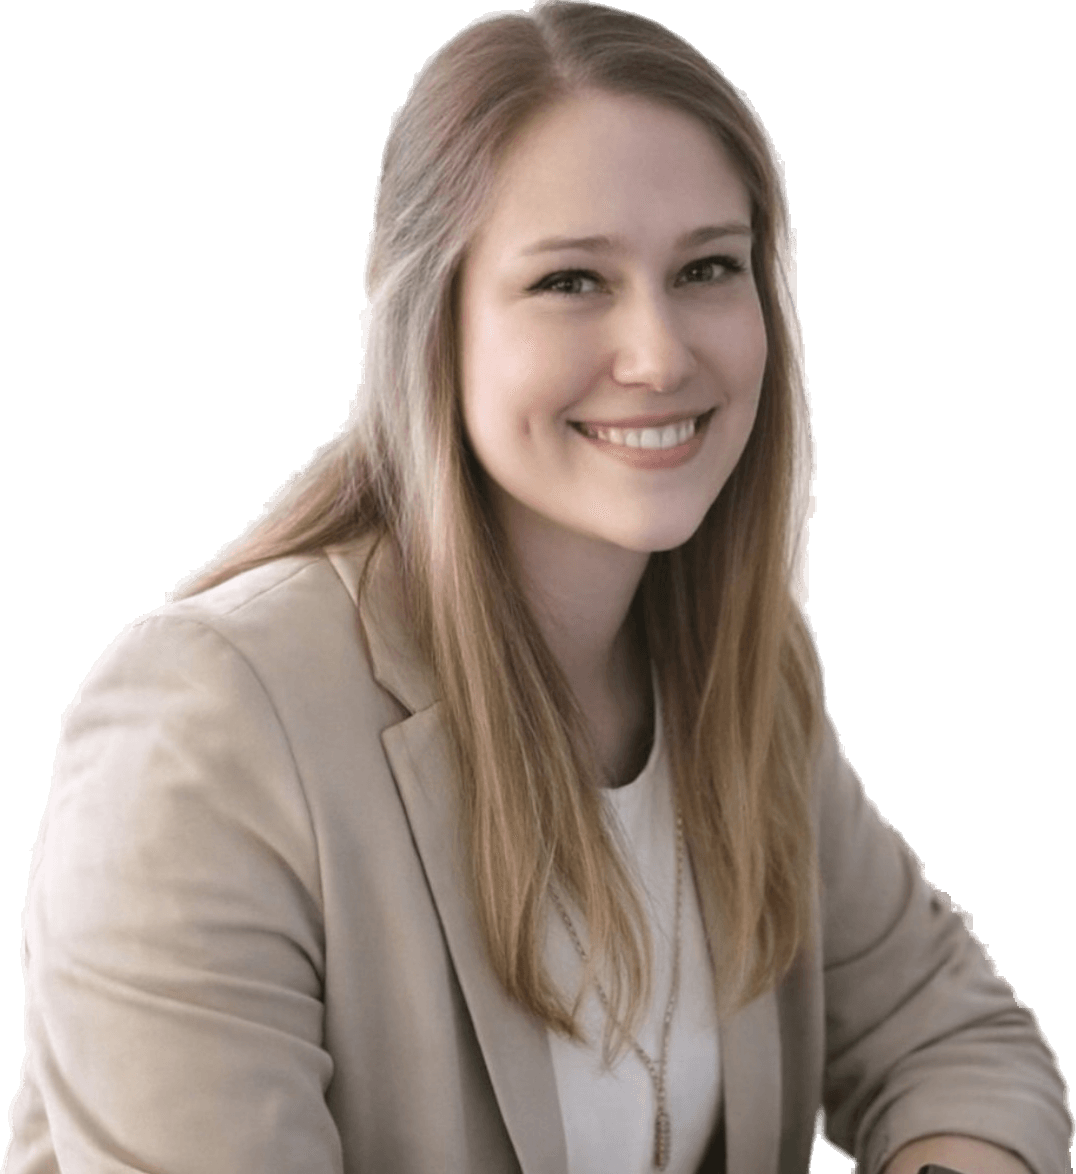
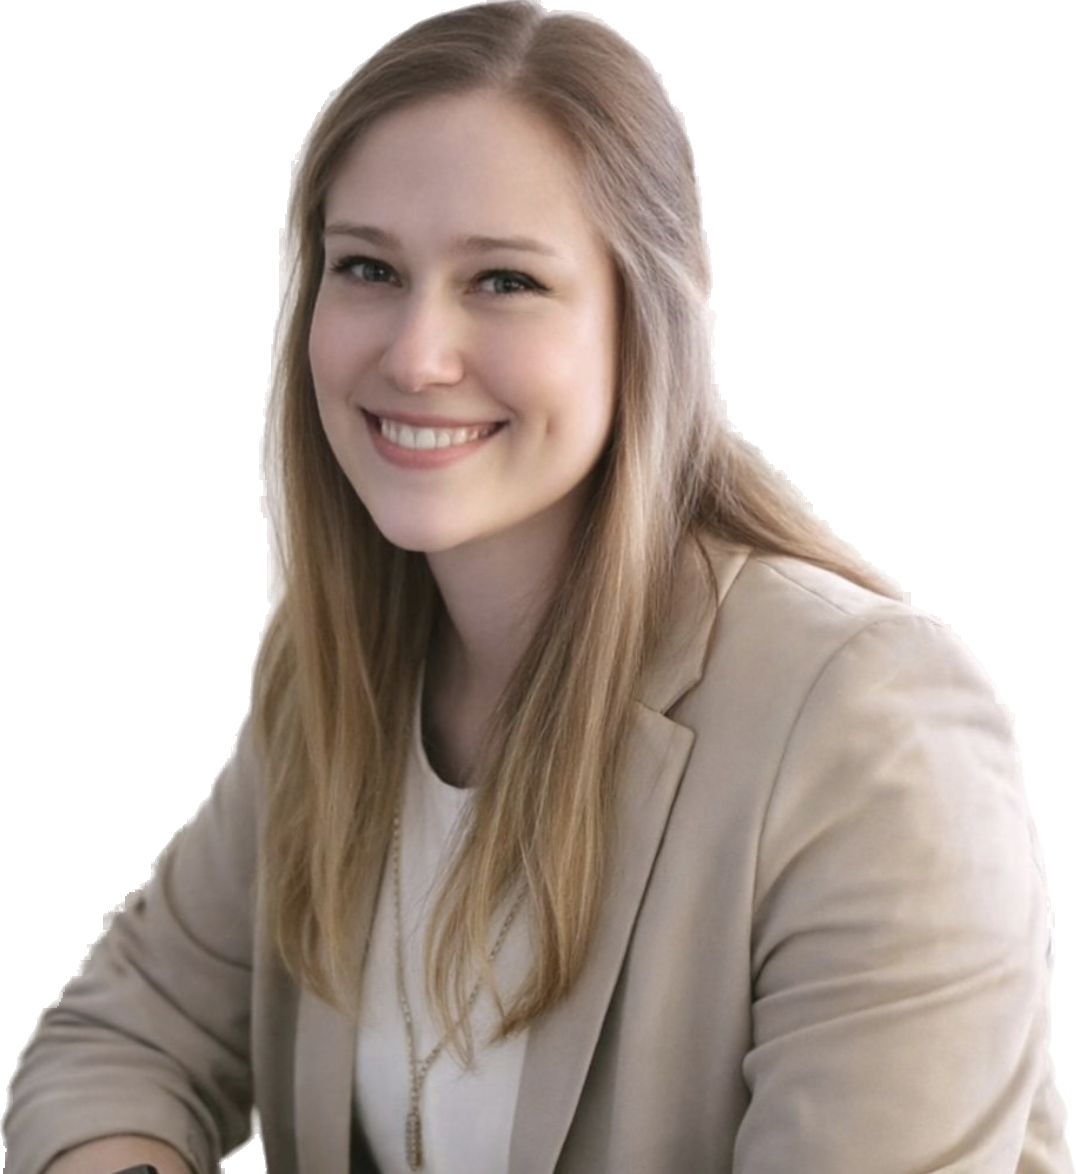
dradora: cabello más limpio, fotos recortadas a la cintura y foto principal volteada hacia el texto
Claude-Session: https://claude.ai/code/session_01MpN3umNtzBiiuCsnLceKdT

diff --git a/dradora/index.html b/dradora/index.html
@@ -72,12 +72,12 @@ nav.main a:hover{color:var(--plum)}
 .appt .cta{width:100%;justify-content:center}
 .stage{position:relative;align-self:end;justify-self:center;width:100%;max-width:470px;aspect-ratio:470/520}
 .stage::before{content:"";position:absolute;inset:20% 4% 0 4%;border-radius:220px 220px 0 0;background:linear-gradient(170deg,var(--lilac) 0%,var(--violet) 100%)}
-.stage svg{position:absolute;inset:6% -4% auto auto;width:62%;height:auto;opacity:.9}
+.stage svg{position:absolute;inset:6% auto auto -4%;width:62%;height:auto;opacity:.9}
 .stage img{position:absolute;left:0;bottom:0;width:100%;height:auto}
-.stage .tag{position:absolute;left:-12px;bottom:40px;background:var(--paper);border:1px solid var(--line);padding:12px 16px;box-shadow:0 16px 36px rgba(45,26,75,.16)}
+.stage .tag{position:absolute;right:-12px;bottom:40px;background:var(--paper);border:1px solid var(--line);padding:12px 16px;box-shadow:0 16px 36px rgba(45,26,75,.16)}
 .stage .tag b{display:block;font-family:var(--display);font-weight:400;font-size:1.7rem;line-height:1;color:var(--plum)}
 .stage .tag span{font-size:12px;color:var(--muted)}
-@media (max-width:900px){.hero .wrap{grid-template-columns:1fr;gap:0}.appt{margin-bottom:32px;max-width:none}.stage{max-width:340px}.stage .tag{left:0}}
+@media (max-width:900px){.hero .wrap{grid-template-columns:1fr;gap:0}.appt{margin-bottom:32px;max-width:none}.stage{max-width:340px}.stage .tag{right:0}}
 
 .facts-band{background:var(--plum);color:#fff}
 .facts-band .wrap{display:grid;grid-template-columns:repeat(4,1fr)}
@@ -112,10 +112,10 @@ nav.main a:hover{color:var(--plum)}
 
 .doc{display:grid;grid-template-columns:.8fr 1.2fr;gap:40px;align-items:start}
 @media (max-width:760px){.doc{grid-template-columns:1fr;gap:28px}}
-.doc figure{margin:0;max-width:360px;width:100%;justify-self:center}
-.docstage{position:relative;aspect-ratio:360/600}
-.docstage::before{content:"";position:absolute;inset:16% 0 0 0;border-radius:180px 180px 0 0;background:linear-gradient(170deg,var(--lilac-soft),var(--lilac))}
-.docstage img{position:absolute;left:50%;bottom:0;transform:translateX(-50%);height:100%;width:auto;max-width:none}
+.doc figure{margin:0;max-width:400px;width:100%;justify-self:center}
+.docstage{position:relative;aspect-ratio:490/595}
+.docstage::before{content:"";position:absolute;inset:22% 0 0 0;border-radius:180px 180px 0 0;background:linear-gradient(170deg,var(--lilac-soft),var(--lilac))}
+.docstage img{position:absolute;left:0;bottom:0;width:100%;height:auto}
 .doc figcaption{font-size:12.5px;color:var(--muted);margin-top:8px}
 .quote{font-family:var(--serif);font-size:1.45rem;line-height:1.35;color:var(--plum)}
 .dl{margin:24px 0 0;display:grid;grid-template-columns:150px 1fr;border-top:1px solid var(--line)}
@@ -156,9 +156,9 @@ nav.main a:hover{color:var(--plum)}
 .ptable td.pr{white-space:nowrap;font-weight:600;color:var(--plum)}
 .tblwrap{overflow-x:auto}
 .fine{font-size:13px;color:var(--muted);margin-top:14px}
-.stage2{position:relative;width:100%;max-width:300px;aspect-ratio:300/600;justify-self:center}
-.stage2::before{content:"";position:absolute;inset:18% 6% 0 6%;border-radius:160px 160px 0 0;background:var(--lilac-soft)}
-.stage2 img{position:absolute;left:50%;bottom:0;transform:translateX(-50%);height:100%;width:auto;max-width:none}
+.stage2{position:relative;width:100%;max-width:300px;aspect-ratio:234/378;justify-self:center}
+.stage2::before{content:"";position:absolute;inset:24% 0 0 0;border-radius:160px 160px 0 0;background:var(--lilac-soft)}
+.stage2 img{position:absolute;left:0;bottom:0;width:100%;height:auto}
 
 .loc{display:grid;grid-template-columns:1fr 1fr;border:1px solid var(--line)}
 @media (max-width:760px){.loc{grid-template-columns:1fr}}
@@ -324,7 +324,7 @@ footer .legal a{text-decoration:underline;font-weight:600}
 <section class="sec" id="doctora"><div class="wrap">
   <div class="rail"><p class="num">02</p><h2>La doctora</h2></div>
   <div class="body doc">
-    <figure><div class="docstage"><img src="dora-bata.png" alt="Dra. Dora Carolina Aldama Gutiérrez con bata" width="472" height="952" loading="lazy"></div><figcaption>Dra. Dora Carolina Aldama Gutiérrez</figcaption></figure>
+    <figure><div class="docstage"><img src="dora-bata.png" alt="Dra. Dora Carolina Aldama Gutiérrez con bata" width="490" height="595" loading="lazy"></div><figcaption>Dra. Dora Carolina Aldama Gutiérrez</figcaption></figure>
     <div>
       <p class="quote">Medicina basada en evidencia. Cuidado que te acompaña.</p>
       <dl class="dl">
@@ -372,7 +372,7 @@ footer .legal a{text-decoration:underline;font-weight:600}
       </table></div>
       <p class="fine">Precios sin aseguradora; pueden variar según el caso. Efectivo, tarjeta, transferencia y pago en línea. Cancelación sin costo hasta 24 h antes.</p>
     </div>
-    <div class="stage2"><img src="dora-negro.png" alt="Dra. Dora Carolina Aldama" width="246" height="585" loading="lazy"></div>
+    <div class="stage2"><img src="dora-negro.png" alt="Dra. Dora Carolina Aldama" width="234" height="378" loading="lazy"></div>
   </div>
 </div></section>
 
